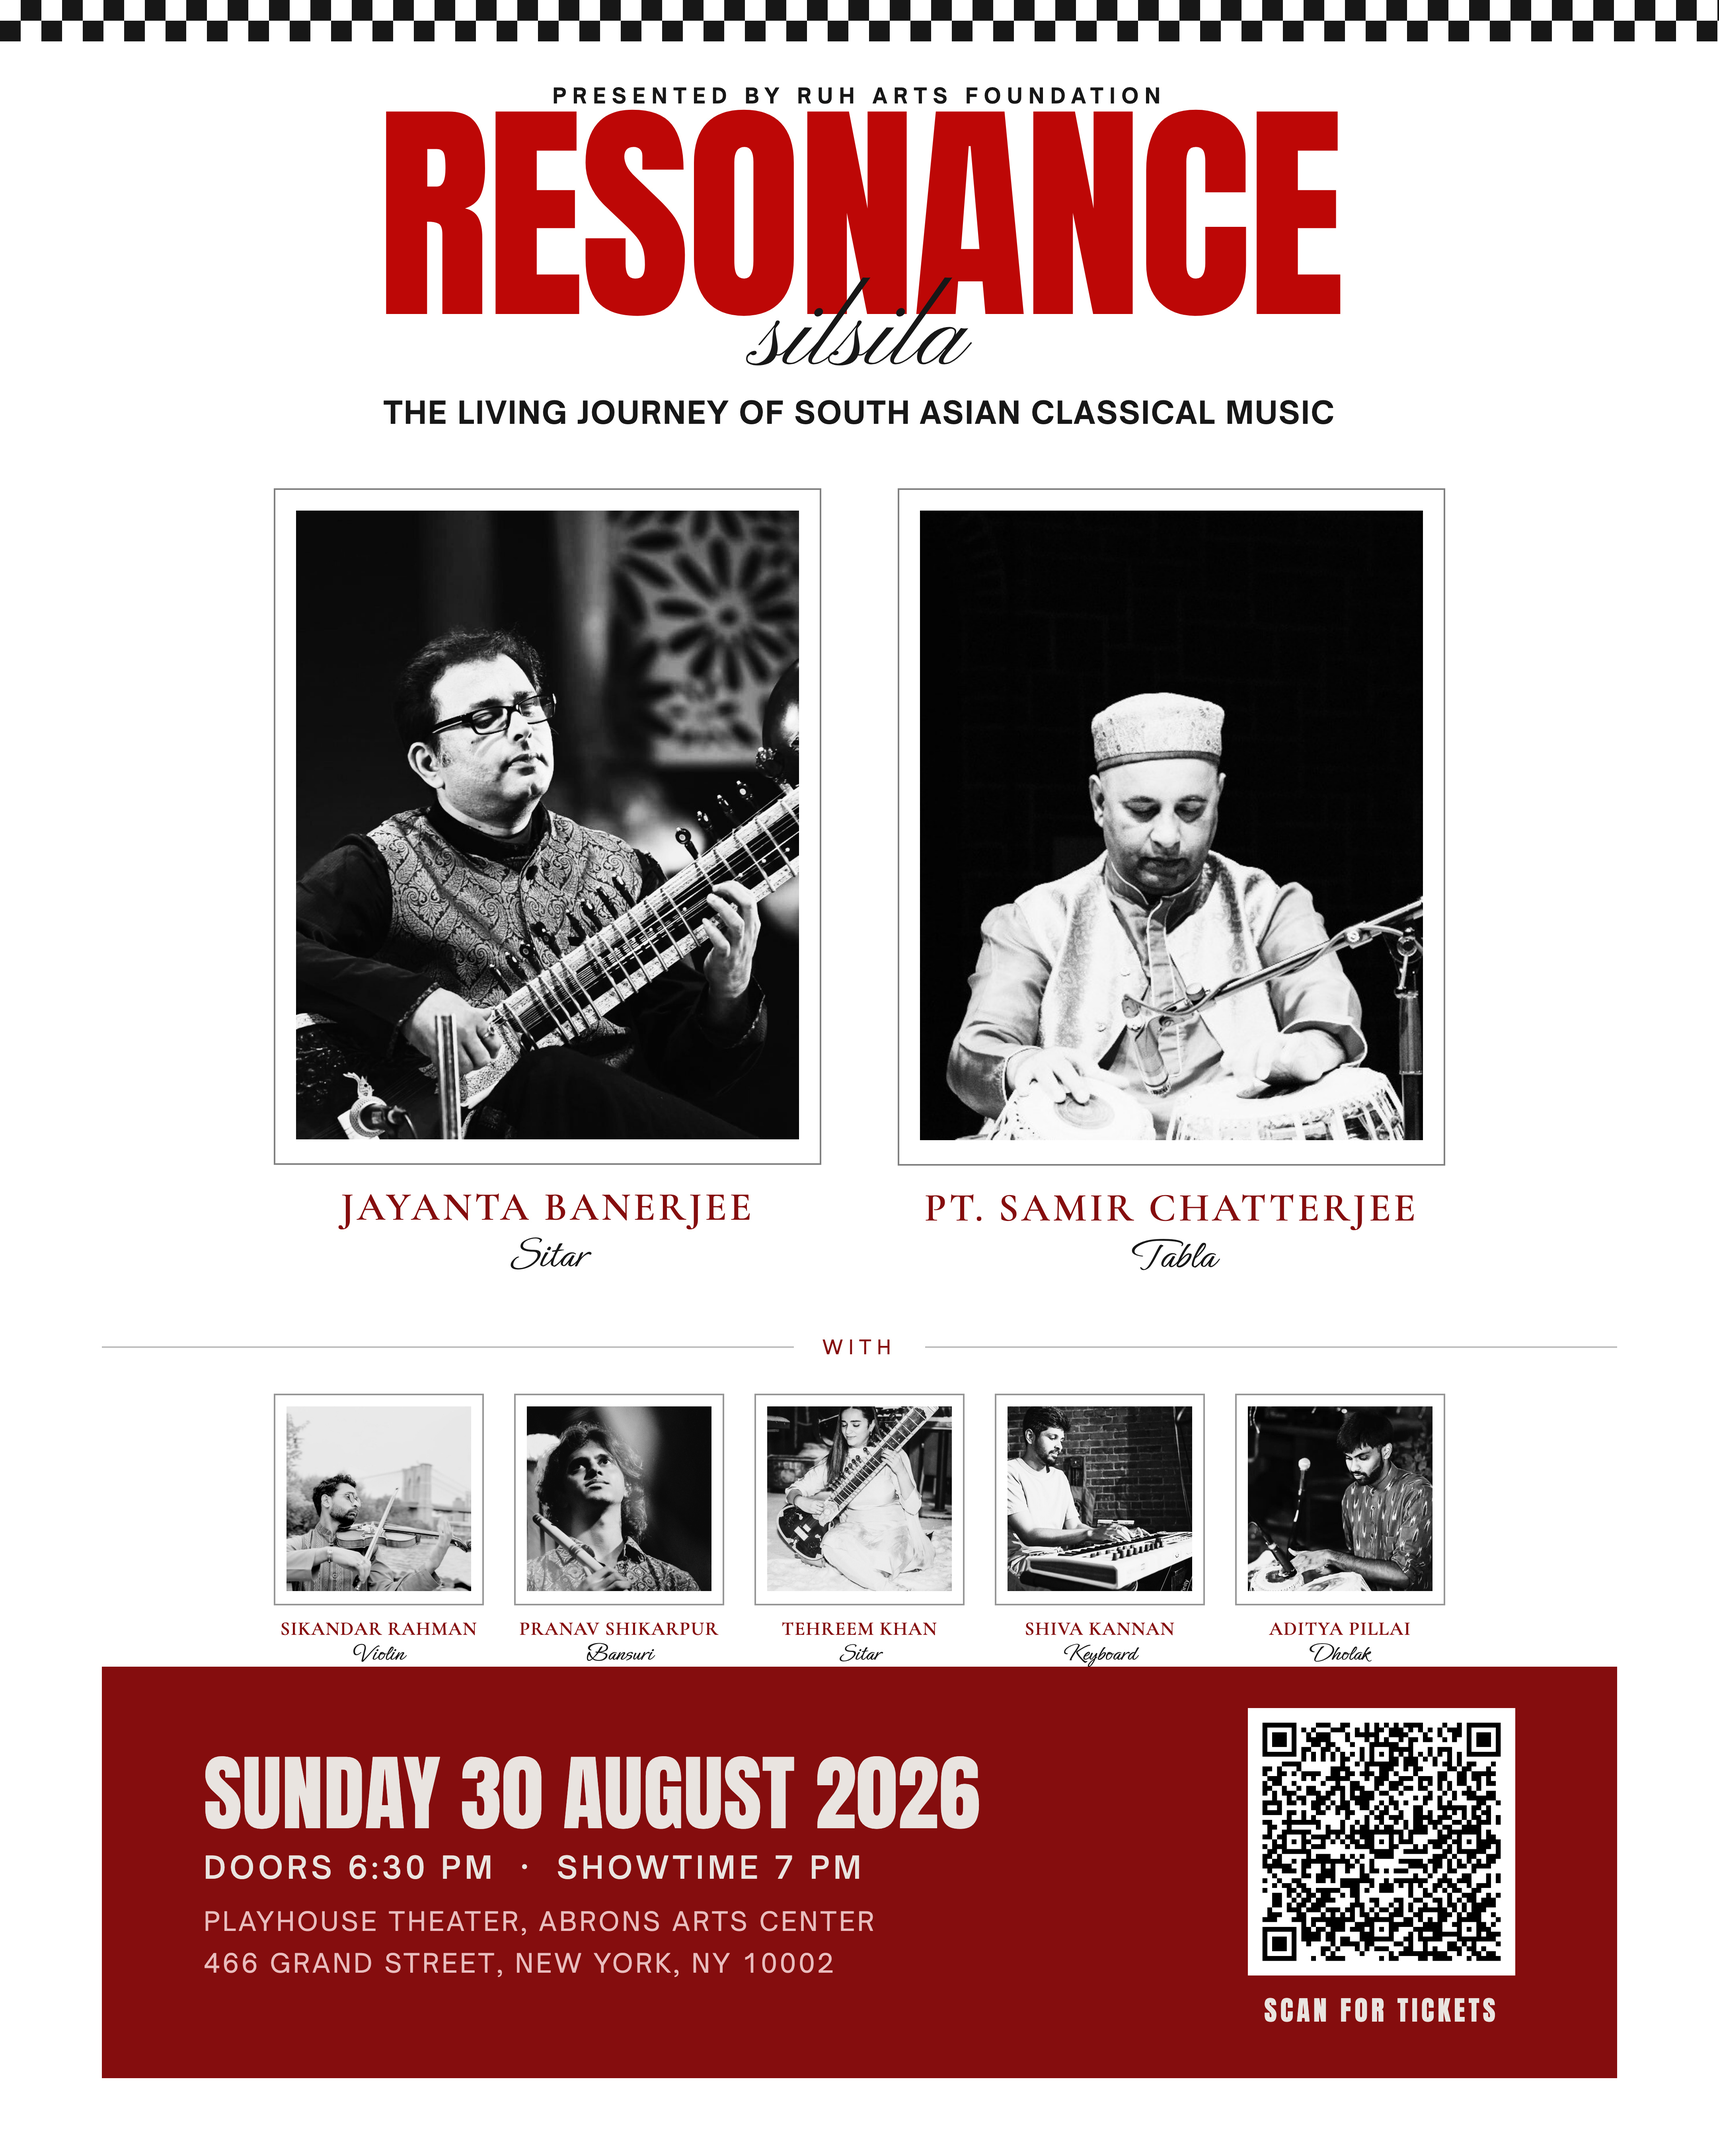
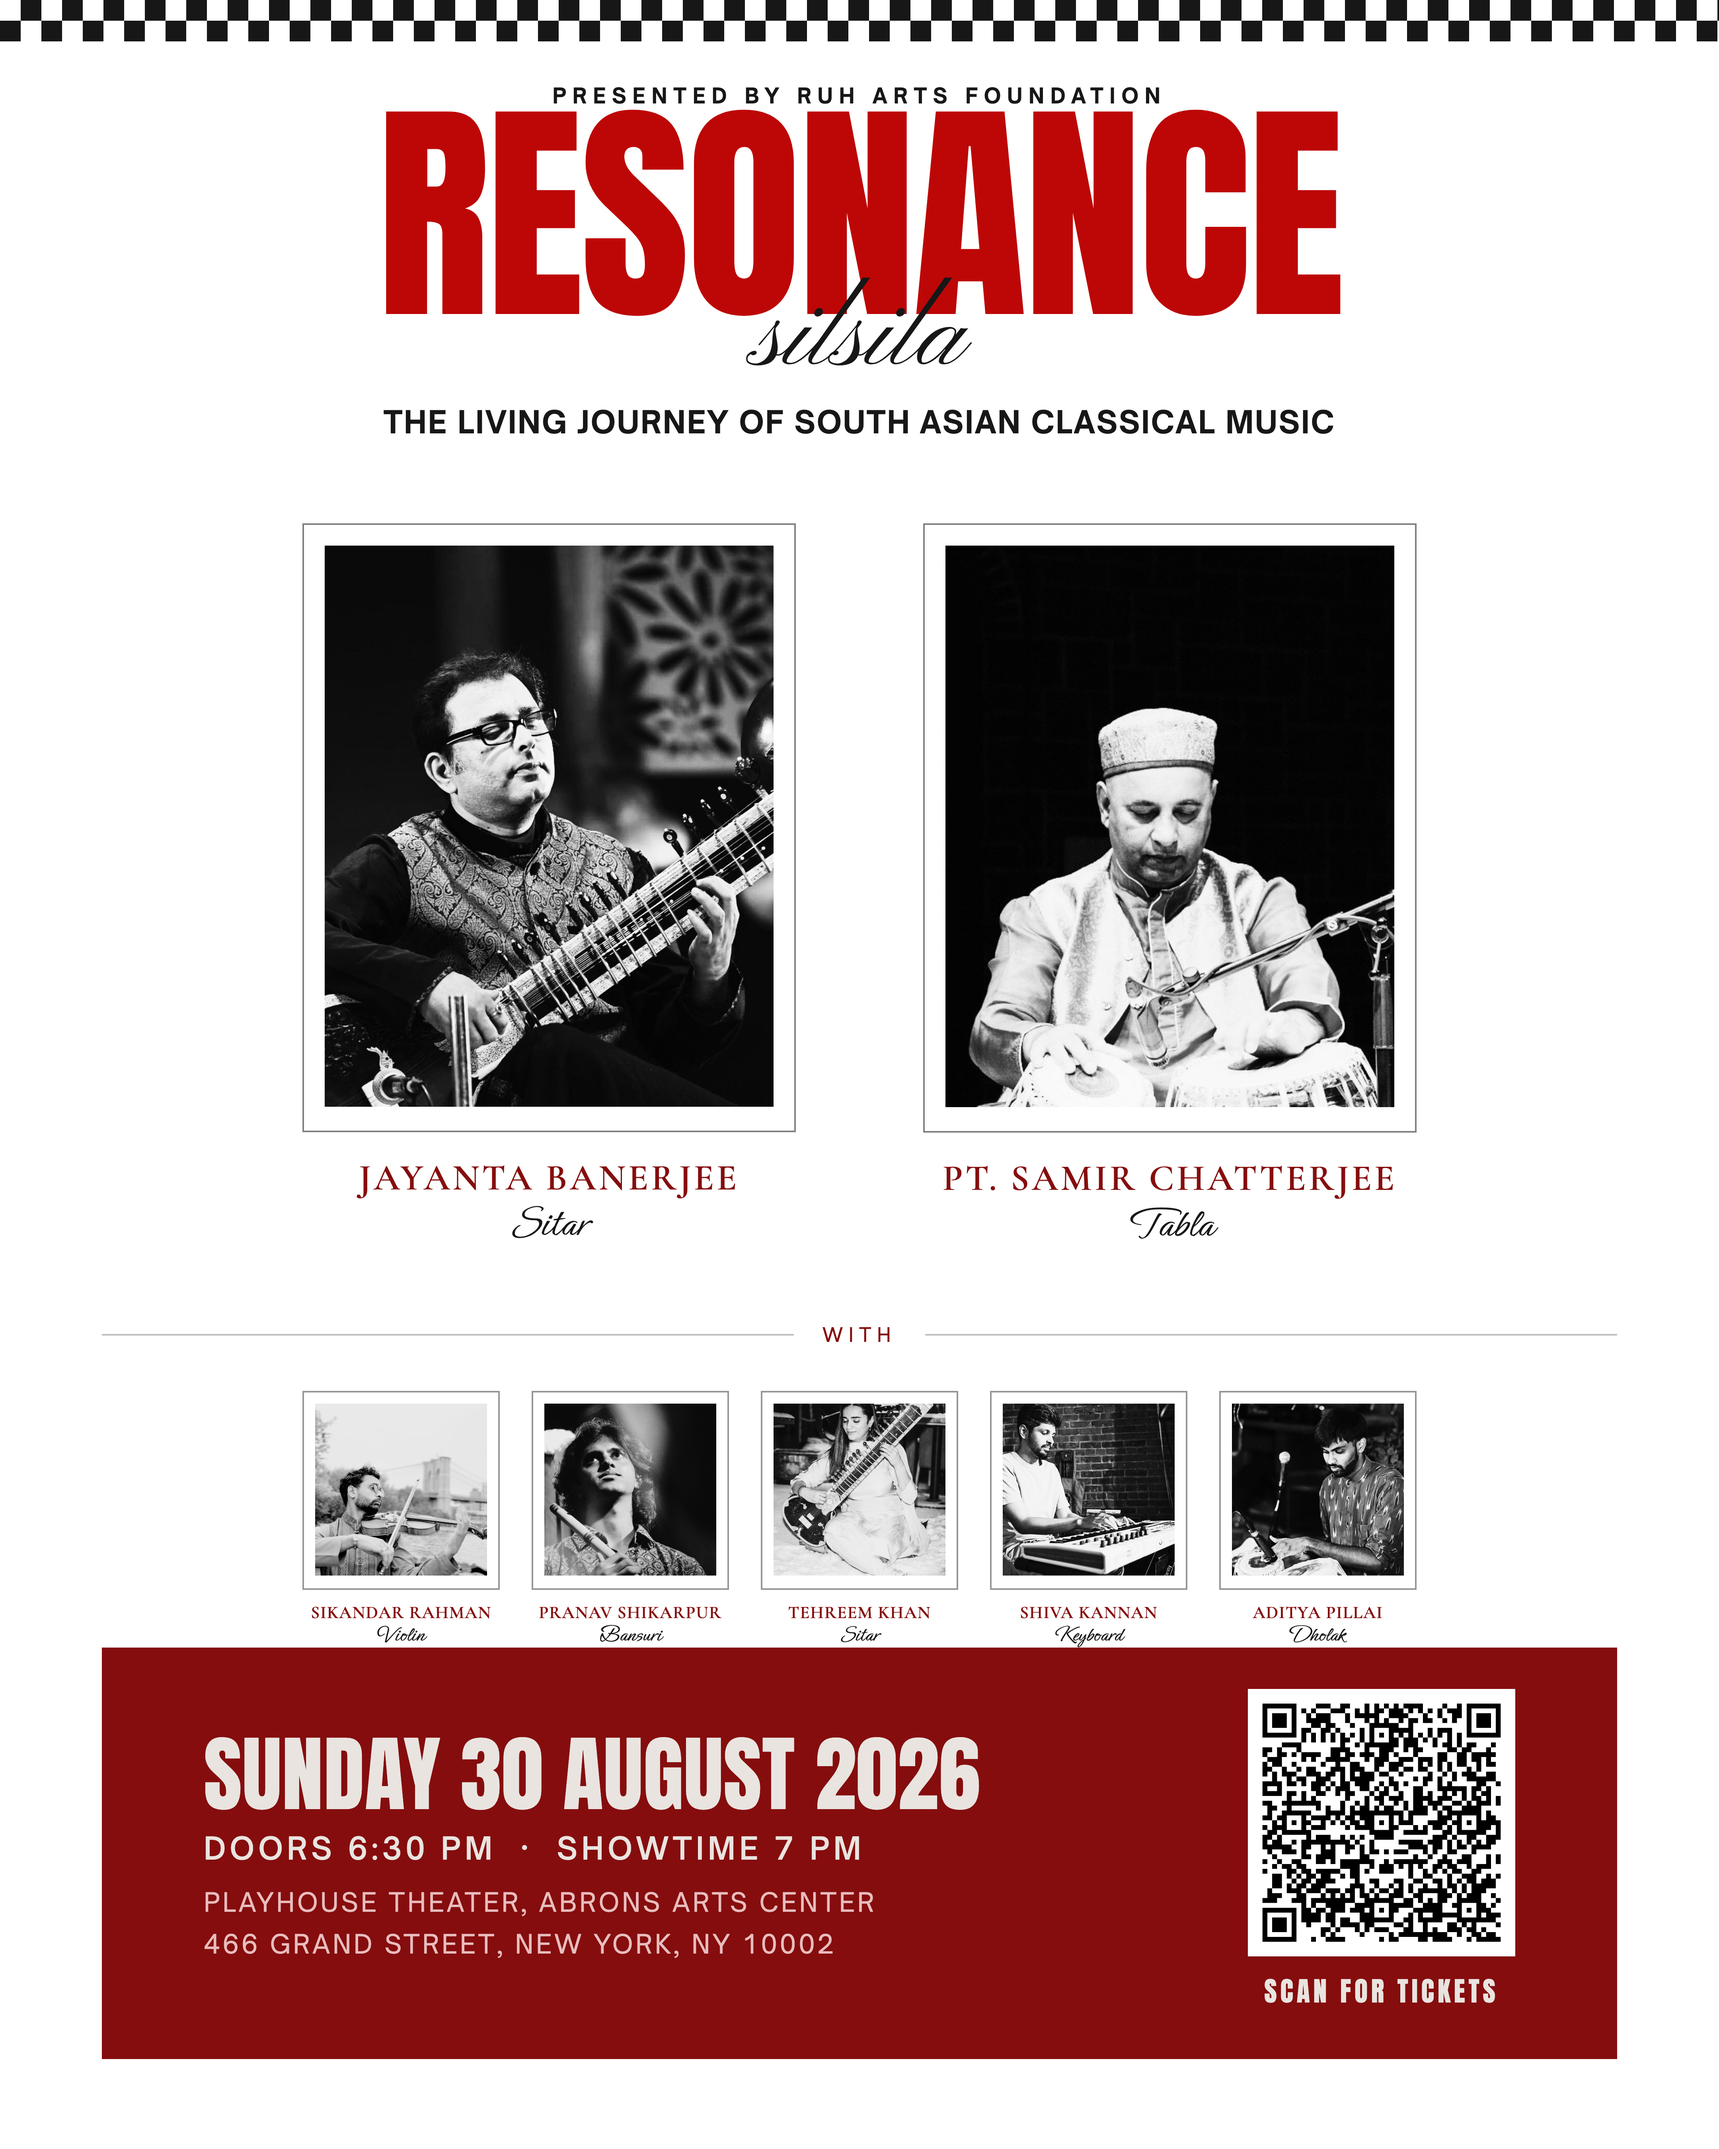
fix: smaller headliners on a 700px measure, more breathing room, names on one line

Changed region(s): [[0.1562, 0.1867, 0.8438, 0.5911], [0.0625, 0.6222, 0.9375, 0.9644]]

diff --git a/poster/poster.html b/poster/poster.html
@@ -125,7 +125,7 @@
       }
       .tagline {
         text-align: center;
-        margin-top: 52px;
+        margin-top: 58px;
         font-size: 19px;
         font-weight: 700;
         letter-spacing: 0.045em;
@@ -136,12 +136,12 @@
       .masters {
         display: flex;
         justify-content: center;
-        gap: 48px;
-        margin-top: 36px;
+        gap: 80px;
+        margin-top: 52px;
       }
       .card {
         position: relative;
-        width: 344px;
+        width: 310px;
       }
       .polaroid {
         background: #ffffff;
@@ -155,12 +155,13 @@
       }
       .who {
         text-align: center;
-        margin-top: 13px;
+        margin-top: 16px;
       }
       .who .n {
         font-family: var(--f-serif);
         font-weight: 600;
-        font-size: 25px;
+        font-size: 23px;
+        white-space: nowrap;
         letter-spacing: 0.075em;
         text-transform: uppercase;
         color: var(--plaster);
@@ -175,7 +176,7 @@
 
       /* ── the company ──────────────────────────────────────── */
       .with {
-        margin-top: 34px;
+        margin-top: 46px;
         display: flex;
         align-items: center;
         gap: 18px;
@@ -196,11 +197,11 @@
       .company {
         display: flex;
         justify-content: center;
-        gap: 19px;
-        margin-top: 22px;
+        gap: 20px;
+        margin-top: 28px;
       }
       .co {
-        width: 132px;
+        width: 124px;
       }
       .co .frame {
         background: #ffffff;
@@ -218,7 +219,7 @@
         margin-top: 8px;
         font-family: var(--f-serif);
         font-weight: 600;
-        font-size: 12px;
+        font-size: 11px;
         letter-spacing: 0.04em;
         text-transform: uppercase;
         color: var(--plaster);
@@ -228,7 +229,7 @@
       .co .i {
         text-align: center;
         font-family: var(--f-sign);
-        font-size: 15px;
+        font-size: 14px;
         color: var(--ink);
         line-height: 1.1;
       }
